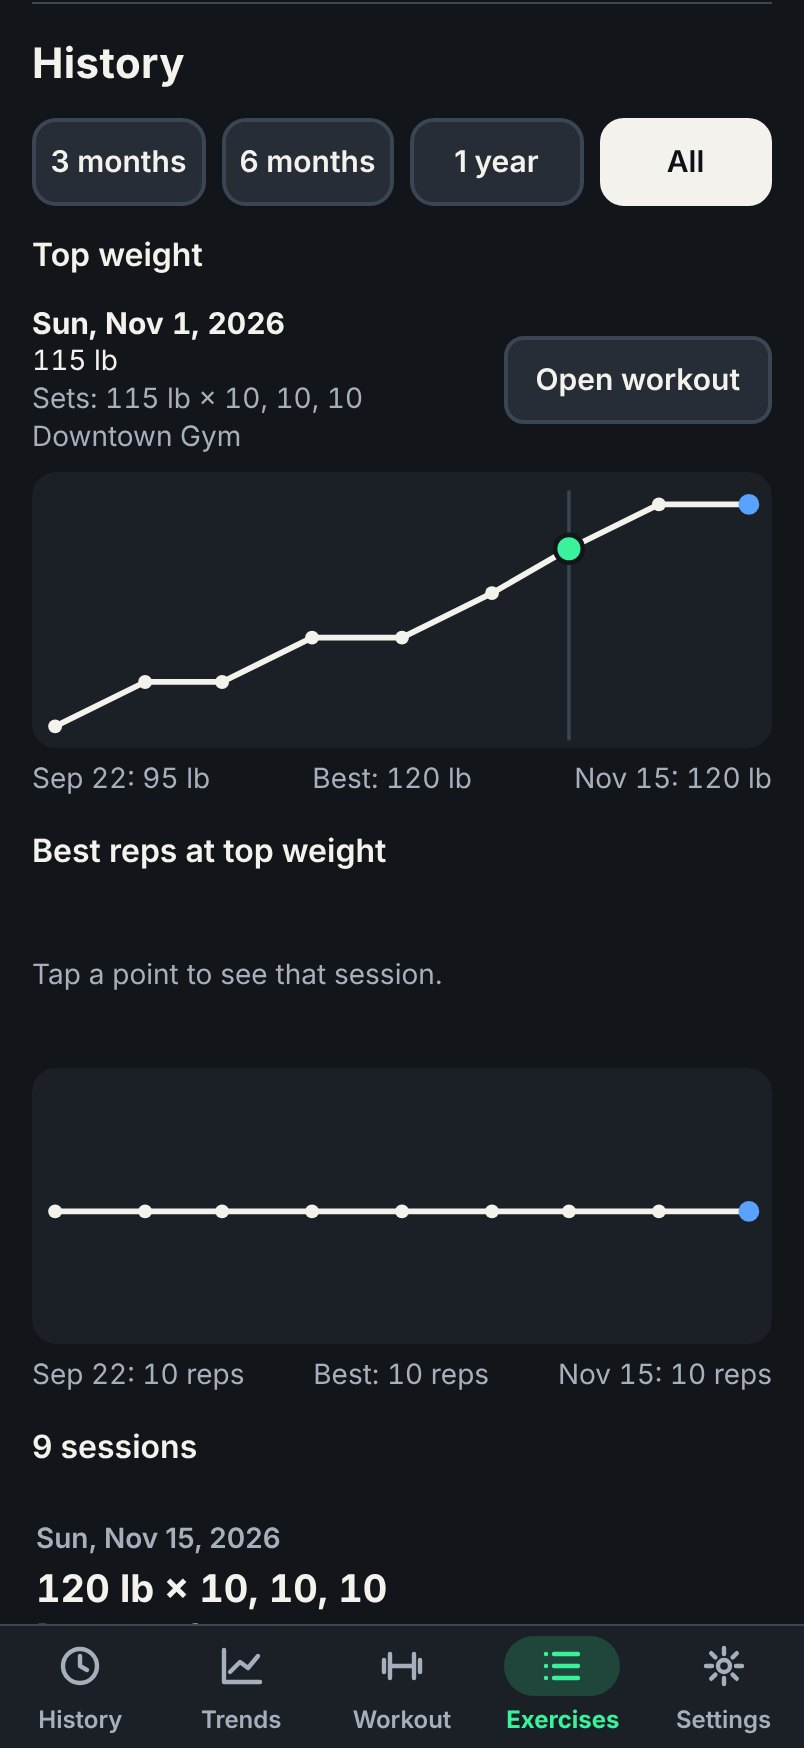
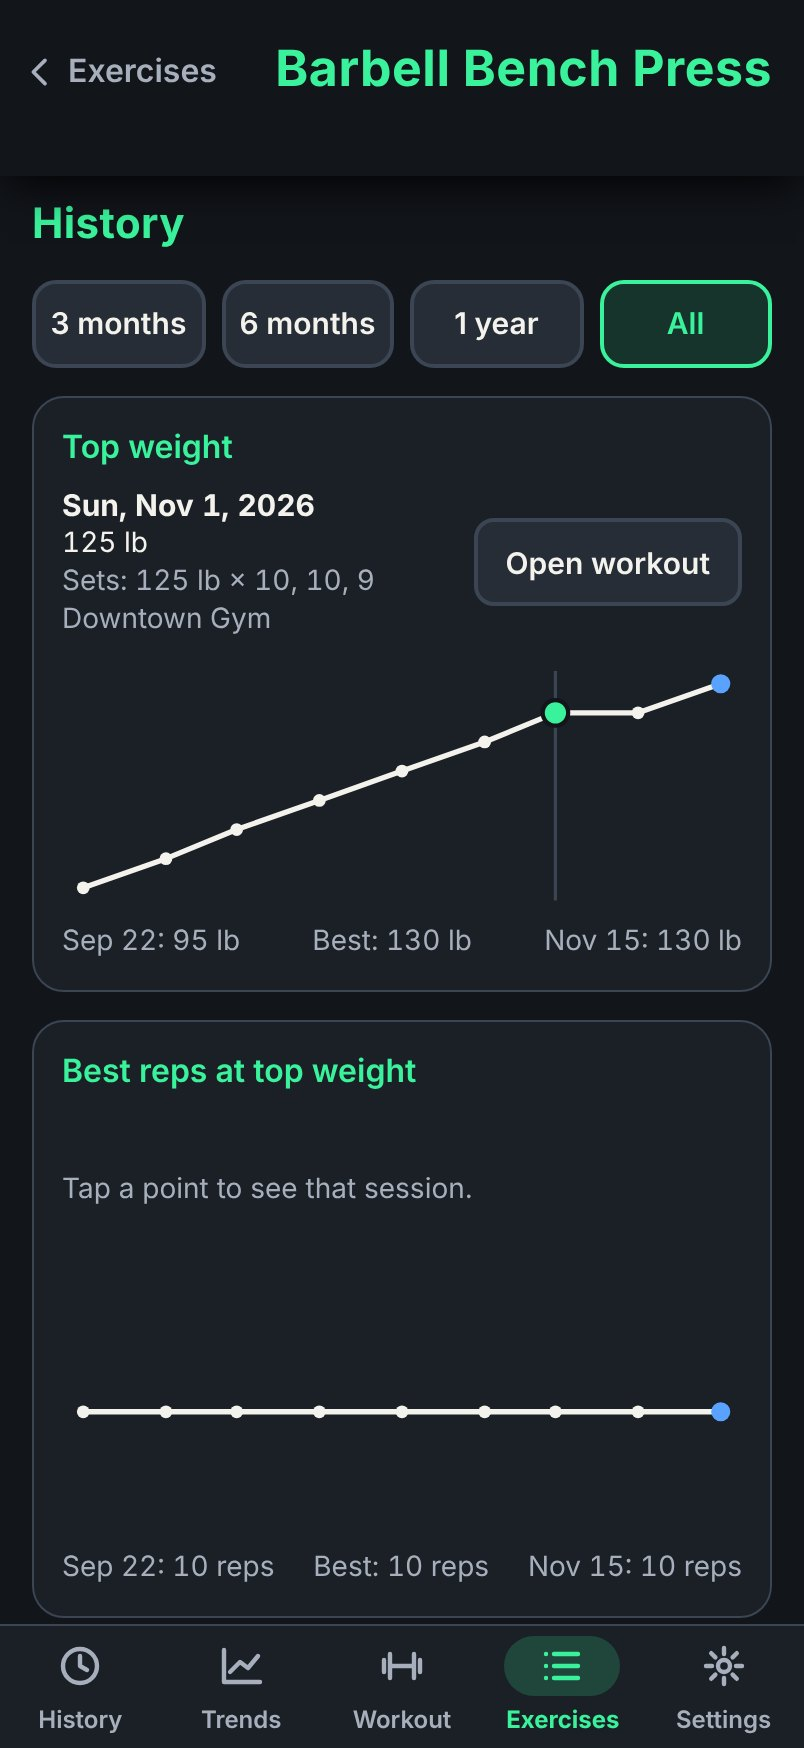
Refresh the Exercise progress and Setup notes README screenshots
Both now show the pinned exercise header (#202); Exercise progress shows
the charts in cards and Setup notes the P1RM row. The capture script
scrolls History below the pinned header. Other screenshots unchanged.

Claude-Session: https://claude.ai/code/session_01AGct8yMtFv46AVy8j4srZs

diff --git a/README.md b/README.md
@@ -16,7 +16,7 @@ ThoeneFit is a self-hosted workout planner and log built for phones. Pick a gym 
 
 | Exercise progress | Setup notes | Trends |
 | :---: | :---: | :---: |
-| <a href="docs/screenshots/exercise-progress.jpg"><img src="docs/screenshots/exercise-progress.jpg" width="250" alt="Barbell Bench Press history: the top weight rising over eight weeks, with one session selected showing its weight and reps"></a> | <a href="docs/screenshots/setup-notes.jpg"><img src="docs/screenshots/setup-notes.jpg" width="250" alt="Barbell Bench Press exercise page with a setup note saved for Downtown Gym: bench on the 3rd hole, safeties at 5"></a> | <a href="docs/screenshots/trends.jpg"><img src="docs/screenshots/trends.jpg" width="250" alt="Trends: weekly lifting volume and workout time over eight weeks, and the recovery estimate for each muscle group"></a> |
+| <a href="docs/screenshots/exercise-progress.jpg"><img src="docs/screenshots/exercise-progress.jpg" width="250" alt="Barbell Bench Press history under the pinned exercise header: the top weight rising over eight weeks in its own chart card, with one session selected showing its weight and reps"></a> | <a href="docs/screenshots/setup-notes.jpg"><img src="docs/screenshots/setup-notes.jpg" width="250" alt="Barbell Bench Press exercise page: the pinned header, an estimated 1-rep max of 173 lb, and a setup note saved for Downtown Gym: bench on the 3rd hole, safeties at 5"></a> | <a href="docs/screenshots/trends.jpg"><img src="docs/screenshots/trends.jpg" width="250" alt="Trends: weekly lifting volume and workout time over eight weeks, and the recovery estimate for each muscle group"></a> |
 
 | Saved routines | Shared workout | Share your workout |
 | :---: | :---: | :---: |
